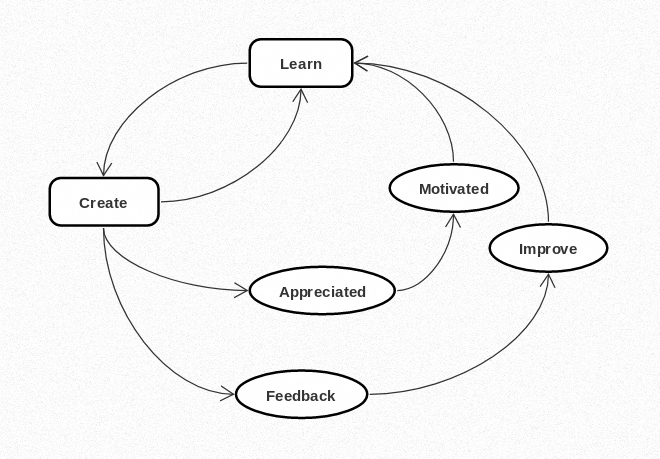
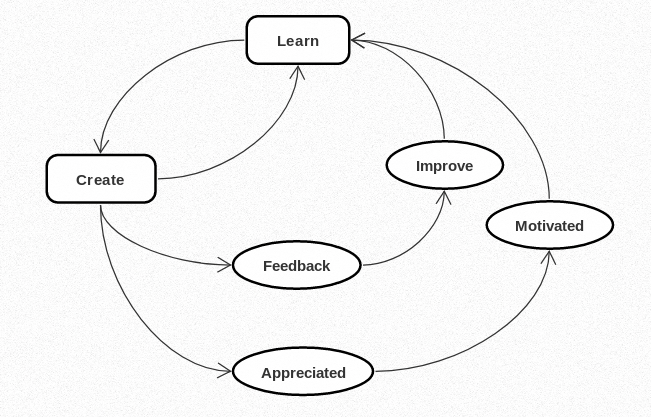
new post - draft-2

diff --git a/_posts/2019-8-25-my-devlearn-flow.md b/_posts/2019-8-25-my-devlearn-flow.md
@@ -4,7 +4,7 @@ comments: true
 published: false
 title: My devlearn flow
 description: Everyone learns through different ways this is the one I follow and recommend
-tags: [productivity, dev, beginners]
+tags: [productivity, beginners, tips]
 image: blog9.jpg
 ---
 
@@ -19,7 +19,11 @@ It all begins from you creating something out of whatever you already know or if
 
 As you can see in the above flow there are 3 phases which you may encounter while beign a programmmer.
 
-# Phase 1 - The Initial Juggler
+# Phase 1 - The Undefined
+This is an endless cycle of Create 🔄 Learn, you never stop learning while being a dev.
+
+
+# Phase 2 - The Juggler
 In phase 1 there are 3 stages :
 
 1. Feedback 
@@ -37,7 +41,8 @@ Jot down all the things you thought you could have implemeted in the app or
 
 > Tip : If you use GitHub for side projects use the "issues" they are very handy for remembering what you had to do or what not. I recently started doing this for my small projects.
 
-# Phase 2 - The Pro Stage
+
+# Phase 3 - The Pro Stage
 In phase 2 there are 3 stages :
 
 1. Appreciated 
@@ -45,7 +50,7 @@ In phase 2 there are 3 stages :
 3. Learn
 
 ## Appreciated
-I call this the pro stage for this very reason, once your thing start getting liked by the communtiy people start appreceating what you do and how you do it.
+I call this the pro stage for this very reason, once your stuff start getting liked by the communtiy people start appreceating what you do and how you do it.
 this appreciation injects in you the _motivation_ to create & learn more.
 
 ## Motivated
@@ -56,7 +61,6 @@ Due to this very thing I may not leave technial blogging forever 😛
 > Tip: before you start your day programming make sure you make a small to-do list just before you turn on your PC/laptop and in the list add only the things you would do in that sitting.
 For example if you program 2-3 hours constantly make sure your to-do list coantins items that can be compelted in that time frame, Don't think about tommorrow think about the present.
 
-# Phase 3 - The Undefined
-This is an endless cycle of Create 🔄 Learn, you never stop learning while being a dev.
+
 
 > This strategy is pretty handy & has been giving me postive results 😃 since I started creating stuff, it may not work on you but you may surley gain some insight from this.
